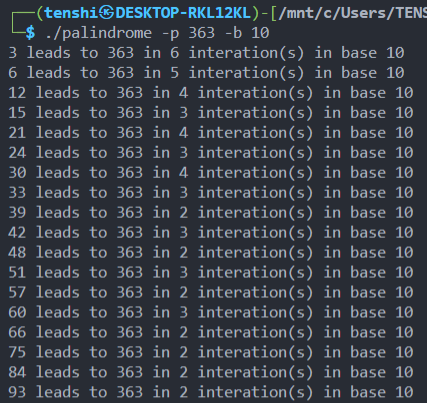
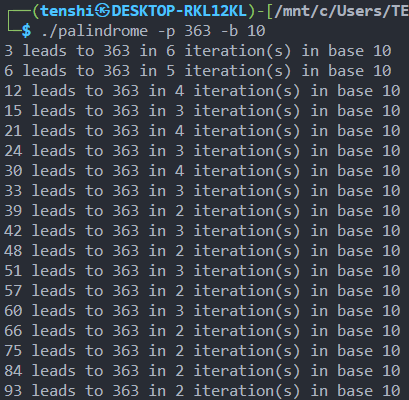
fix display

diff --git a/src/palindrome_p.c b/src/palindrome_p.c
@@ -4,7 +4,7 @@ static void print_result(data_t *data, int save_nbr, int *found, char *compare_n
 {
     if (strcmp(data->str, compare_nb) == 0 && data->iterations >= data->imin) {
         printf("%d leads to %d ", index, save_nbr);
-        printf("in %d interation(s) in base %d\n", data->iterations, data->base);
+        printf("in %d iteration(s) in base %d\n", data->iterations, data->base);
         *found = 1;
     }
 }
